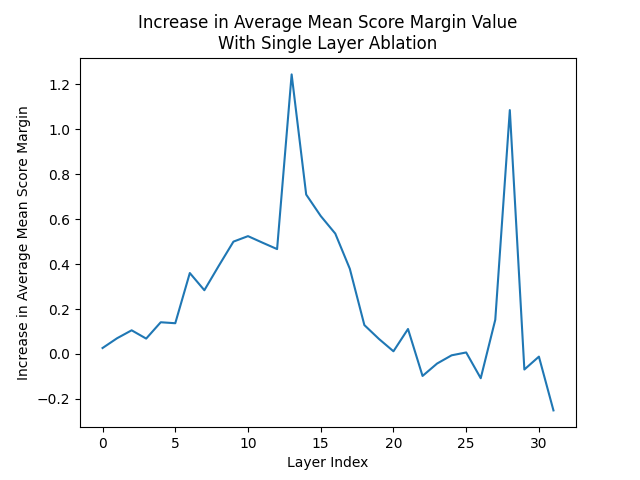
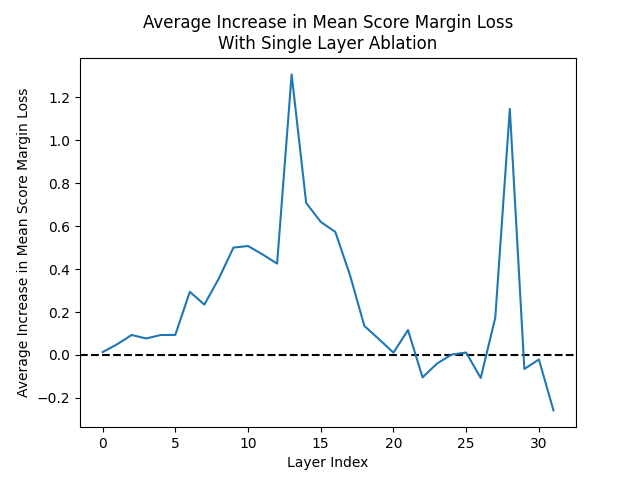
more ablation analysis

diff --git a/analyze_ablations.py b/analyze_ablations.py
@@ -13,7 +13,7 @@ def mean_score_margin(rel_score: float, nrel_scores: list[float]):
 def min_score_margin(rel_score: float, nrel_scores: list[float]):
     return -(rel_score - max(nrel_scores))
 
-def log_loss(rel_score: float, nrel_scores: list[float]):
+def categorical_cross_entropy(rel_score: float, nrel_scores: list[float]):
     rel_score_exp = math.exp(rel_score)
     nrel_scores_exp = [ math.exp(nrel_score) for nrel_score in nrel_scores ]
 
@@ -35,7 +35,7 @@ def ndcg(rel_score: float, nrel_scores: list[float]):
 evaluation_metrics = {
     "Mean Score Margin": mean_score_margin,
     "Min Score Margin": min_score_margin,
-    "Log Loss": log_loss,
+    "Categorical Cross Entropy": categorical_cross_entropy,
     "Reciprocal Rank": reciprocal_rank,
     "NDCG": ndcg
 }
@@ -98,9 +98,6 @@ def analyze_single_head_ablations():
         for evaluation_metric in evaluation_metrics.keys()
     }
 
-    # my base model has control of LL = 0.5, my ablated model has LL = 0.8 cuz its worse, control - ablated = 0.5 - 0.8 = -0.3
-    # negative number means the ablated performs worse
-
     for layer_index in range(reranker.ft_model.config.num_hidden_layers):
         for evaluation_metric in evaluation_metrics.keys():
             evaluation_metric_heatmaps[evaluation_metric].append([])
@@ -118,7 +115,7 @@ def analyze_single_head_ablations():
 
         transformer_heatmap(
             f"results/ablation-analysis/head/{evaluation_metric}.png",
-            f"Increase in Average {evaluation_metric} Values\nWith Single Head Ablation",
+            f"Average Increase in {evaluation_metric} Loss\nWith Single Head Ablation",
             normalize_head_data(metric_heatmap)
         )
 
@@ -128,6 +125,8 @@ def analyze_single_head_ablations():
         #     print(f"Top correlations between {model_data_name} and {evaluation_metric}")
         #     print(top_model_correlations(model_data_name, metric_heatmap, 3))
         #     print()
+
+# TODO: abstract the following analysis routines better
 
 def analyze_single_layer_ablations():
     evaluation_metric_control_values = analyze_ablation("results/ablation/none.json")
@@ -148,14 +147,108 @@ def analyze_single_layer_ablations():
     for evaluation_metric in evaluation_metrics.keys():
         plt.clf()
 
-        plt.title(f"Increase in Average {evaluation_metric} Value\nWith Single Layer Ablation")
+        plt.title(f"Average Increase in {evaluation_metric} Loss\nWith Single Layer Ablation")
         plt.xlabel("Layer Index")
-        plt.ylabel(f"Increase in Average {evaluation_metric}")
+        plt.ylabel(f"Average Increase in {evaluation_metric} Loss")
+        plt.axhline(y=0, color='black', linestyle='--')
 
         plt.plot(range(reranker.ft_model.config.num_hidden_layers), evaluation_metric_progressions[evaluation_metric])
 
         plt.savefig(f"results/ablation-analysis/layer/{evaluation_metric}.png")
 
+def analyze_keep_single_layer_ablations():
+    evaluation_metric_control_values = analyze_ablation("results/ablation/none.json")
+
+    evaluation_metric_progressions = {
+        evaluation_metric: []
+        for evaluation_metric in evaluation_metrics.keys()
+    }
+
+    for layer_index in range(reranker.ft_model.config.num_hidden_layers):
+        evaluation_metric_scores = analyze_ablation(f"results/ablation/keep-layer{layer_index}.json")
+
+        for evaluation_metric, metric_score in evaluation_metric_scores.items():
+            evaluation_metric_progressions[evaluation_metric].append(metric_score - evaluation_metric_control_values[evaluation_metric])
+
+    os.makedirs("results/ablation-analysis/keep-layer", exist_ok=True)
+
+    for evaluation_metric in evaluation_metrics.keys():
+        plt.clf()
+
+        plt.title(f"Average Increase in {evaluation_metric} Loss\nWith All But Single Layer Ablation")
+        plt.xlabel("Layer Index")
+        plt.ylabel(f"Average Increase in {evaluation_metric} Loss")
+        plt.axhline(y=0, color='black', linestyle='--')
+
+        plt.plot(range(reranker.ft_model.config.num_hidden_layers), evaluation_metric_progressions[evaluation_metric])
+
+        plt.savefig(f"results/ablation-analysis/keep-layer/{evaluation_metric}.png")
+
+def analyze_window_ablations():
+    evaluation_metric_control_values = analyze_ablation("results/ablation/none.json")
+
+    layer_window_sizes = [ 2, 3, 4, 6 ]
+    
+    for layer_window_size in layer_window_sizes:
+        evaluation_metric_progressions = {
+            evaluation_metric: []
+            for evaluation_metric in evaluation_metrics.keys()
+        }
+
+        for layer_window_index in range(reranker.ft_model.config.num_hidden_layers - layer_window_size + 1):
+            evaluation_metric_scores = analyze_ablation(f"results/ablation/window{layer_window_index}-size{layer_window_size}.json")
+
+            for evaluation_metric, metric_score in evaluation_metric_scores.items():
+                evaluation_metric_progressions[evaluation_metric].append(metric_score - evaluation_metric_control_values[evaluation_metric])
+
+        os.makedirs(f"results/ablation-analysis/window/size{layer_window_size}", exist_ok=True)
+
+        for evaluation_metric in evaluation_metrics.keys():
+            plt.clf()
+
+            plt.title(f"Average Increase in {evaluation_metric} Loss\nWith {layer_window_size} Layer Window Ablation")
+            plt.xlabel("Layer Index")
+            plt.ylabel(f"Average Increase in {evaluation_metric} Loss")
+            plt.axhline(y=0, color='black', linestyle='--')
+
+            plt.plot(range(reranker.ft_model.config.num_hidden_layers - layer_window_size + 1), evaluation_metric_progressions[evaluation_metric])
+
+            plt.savefig(f"results/ablation-analysis/window/size{layer_window_size}/{evaluation_metric}.png")
+
+def analyze_keep_window_ablations():
+    evaluation_metric_control_values = analyze_ablation("results/ablation/none.json")
+
+    layer_window_sizes = [ 2, 3, 4, 6 ]
+    
+    for layer_window_size in layer_window_sizes:
+        evaluation_metric_progressions = {
+            evaluation_metric: []
+            for evaluation_metric in evaluation_metrics.keys()
+        }
+
+        for layer_window_index in range(reranker.ft_model.config.num_hidden_layers - layer_window_size + 1):
+            evaluation_metric_scores = analyze_ablation(f"results/ablation/keep-window{layer_window_index}-size{layer_window_size}.json")
+
+            for evaluation_metric, metric_score in evaluation_metric_scores.items():
+                evaluation_metric_progressions[evaluation_metric].append(metric_score - evaluation_metric_control_values[evaluation_metric])
+
+        os.makedirs(f"results/ablation-analysis/keep-window/size{layer_window_size}", exist_ok=True)
+
+        for evaluation_metric in evaluation_metrics.keys():
+            plt.clf()
+
+            plt.title(f"Average Increase in {evaluation_metric} Loss\nWith All But {layer_window_size} Layer Window Ablation")
+            plt.xlabel("Layer Index")
+            plt.ylabel(f"Average Increase in {evaluation_metric} Loss")
+            plt.axhline(y=0, color='black', linestyle='--')
+
+            plt.plot(range(reranker.ft_model.config.num_hidden_layers - layer_window_size + 1), evaluation_metric_progressions[evaluation_metric])
+
+            plt.savefig(f"results/ablation-analysis/keep-window/size{layer_window_size}/{evaluation_metric}.png")
+
 if __name__ == "__main__":
-    analyze_single_head_ablations()
+    # analyze_single_head_ablations()
     analyze_single_layer_ablations()
+    analyze_keep_single_layer_ablations()
+    analyze_window_ablations()
+    analyze_keep_window_ablations()

diff --git a/README.md b/README.md
@@ -2,11 +2,19 @@
 
 Grouping and visualizing attention heads based on normalized attention mass to features.
 
-## Transformer Heatmaps
+## Attention Head Ablations
+
+<img src="results/ablation-analysis/head/Min Score Margin.png" width="600px" />
+
+## Attention Layer Window Ablations
+
+<img src="results/ablation-analysis/window/size4/Min Score Margin.png" width="600px" />
+
+## Feature Transformer Heatmaps
 
 <img src="results/ft-model/transformer-heatmaps/Rare Document Tokens Attending Synonymous Query Tokens/normalized.png" width="600px" />
 
-## Attention Heatmaps
+## Feature Attention Heatmaps
 
 <img src="results/ft-model/attention-heatmaps/1.png" width="600px" />
 
